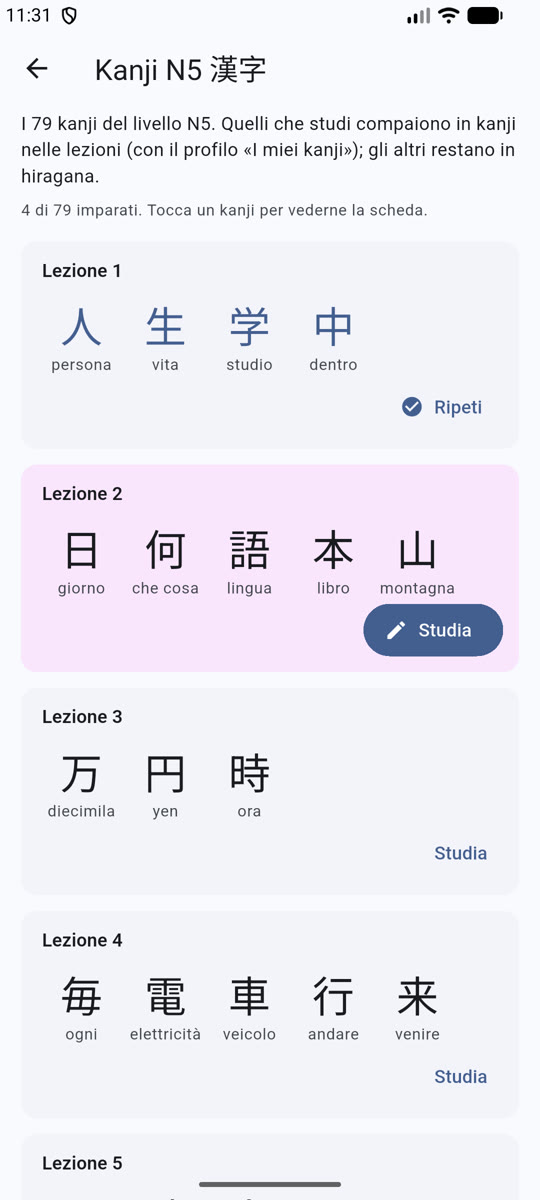
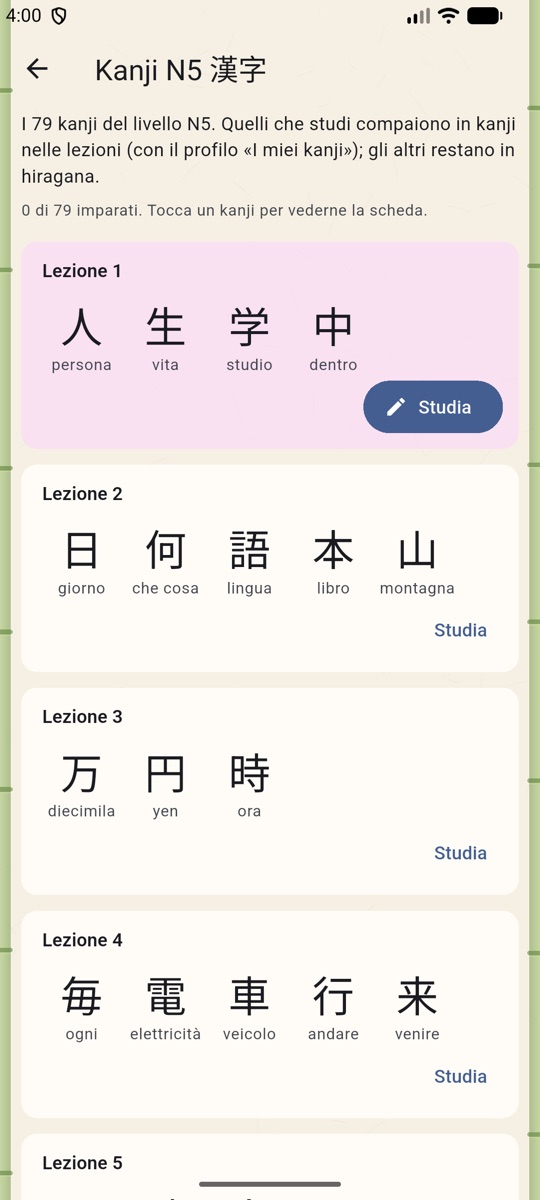
Showcase update: new Japanese look, 40 N5 lessons, exercises, grammar guide, Hana
New screenshots taken on the Android emulator; README updated with the new features,
engineering notes (numbers and counters, vocabulary coverage) and status.

diff --git a/README.md b/README.md
@@ -4,28 +4,28 @@
 
 <p align="center"><i>Learn Japanese the way it is written: only the kanji you know, everything else in hiragana.</i></p>
 
-**Nomichi** (野道, "a path through the fields") is a Flutter app for learning Japanese, for iOS and Android. A single **profile of the kanji you know** drives every screen: you see a kanji in a text only once you have studied it, and everything else stays in hiragana with furigana. The guided path, the reviews and the handwriting practice all follow that profile. It works offline, and the handwriting checks run on the device.
+**Nomichi** (野道, "a path through the fields") is a Flutter app for learning Japanese, for iOS and Android. A single **profile of the kanji you know** drives every screen: you see a kanji in a text only once you have studied it, and everything else stays in hiragana with furigana. The guided path, the reviews and the handwriting practice all follow that profile. It works offline, and the handwriting checks run on the device. The look follows the language you study: for Japanese, washi paper, bamboo and a landscape with Mount Fuji on the home screen.
 
-> 🇮🇹 *Nomichi (野道, "il sentiero fra i campi"): un'app per imparare il giapponese che mostra solo i kanji che conosci e scrive il resto in hiragana. Lezioni a dialoghi con traduzione letterale e naturale, rōmaji ovunque, scrittura col dito corretta tratto per tratto, ripasso a intervalli. Funziona offline.*
+> 🇮🇹 *Nomichi (野道, "il sentiero fra i campi"): un'app per imparare il giapponese che mostra solo i kanji che conosci e scrive il resto in hiragana. 40 lezioni a dialoghi su tutto il vocabolario N5, con traduzione letterale e naturale e rōmaji ovunque; grammatica sempre consultabile, esercizi da completare scrivendo, scrittura col dito corretta tratto per tratto, ripasso a intervalli e conversazione con l'IA del telefono. Funziona offline.*
 
 <p align="center">
   <img src="media/writing.gif" width="270" alt="Writing 日 with a finger: stroke-order animation, tracing, then writing from memory with a stroke-order mistake caught">
 </p>
 
 <p align="center">
-  <img src="media/screen2.jpg" width="200" alt="Lesson 1 before studying any kanji: everything in hiragana">
-  <img src="media/screen3.jpg" width="200" alt="The same lesson after studying 人 生 学 中: those kanji now appear, with furigana">
+  <img src="media/screen2.jpg" width="200" alt="Lesson 1 with the 'My kanji' profile before studying any kanji: everything in hiragana, highlighted">
+  <img src="media/screen3.jpg" width="200" alt="The same lesson with the N5 profile: N5 kanji appear with furigana, 会社員 stays in highlighted hiragana">
 </p>
-<p align="center"><sub>The same dialogue before and after studying the lesson's kanji. Words with kanji you don't know yet are underlined, and tapping them shows the original.</sub></p>
+<p align="center"><sub>The same dialogue with no kanji studied and with the N5 profile. Words whose kanji you don't know yet get a soft yellow highlight, and tapping them shows the original.</sub></p>
 
 <p align="center">
-  <img src="media/screen1.jpg" width="160" alt="The guided path with progress, kanji profile and writing sections">
+  <img src="media/screen1.jpg" width="160" alt="Home: the app name in a Japanese landscape, next lesson, kanji profile, conversation and grammar">
+  <img src="media/screen9.jpg" width="160" alt="Lesson 14 with the N5 profile: kanji with furigana, rōmaji, literal and natural translation">
+  <img src="media/screen7.jpg" width="160" alt="Fill-in exercise: the missing particle typed in rōmaji and checked">
+  <img src="media/screen8.jpg" width="160" alt="N5 grammar guide with search, rōmaji on every Japanese word">
   <img src="media/screen4.jpg" width="160" alt="The 79 N5 kanji grouped by the lesson that introduces them">
-  <img src="media/screen5.jpg" width="160" alt="Writing 学 from memory">
+  <img src="media/screen5.jpg" width="160" alt="Stroke order of 日, with a button to hear its readings">
   <img src="media/screen6.jpg" width="160" alt="Hiragana table">
-  <img src="media/screen7.jpg" width="160" alt="Tracing あ: a stroke drawn in the wrong direction is caught">
-  <img src="media/screen8.jpg" width="160" alt="Review card: write a in hiragana, graded automatically">
-  <img src="media/screen9.jpg" width="160" alt="Grammar notes with rōmaji on every Japanese word">
 </p>
 
 <p align="center">▶ <a href="media/demo.mp4"><b>Watch the 20-second handwriting demo</b></a></p>
@@ -35,13 +35,16 @@
 ## ✨ Features
 
 - **A kanji profile instead of a "level"**: by default the app shows only the kanji you have studied in it ("My kanji"). You can also pick a JLPT level (N5, N4, N3) and see every kanji of that level. The check is done by code on every sentence, so a text never contains a kanji above your profile.
-- **Guided path of dialogue lessons**: each line has furigana, rōmaji, a word-by-word literal translation and a natural Italian translation, and each can be hidden. Grammar notes come with examples, and every Japanese word in them carries its rōmaji. Polite forms come first (*dewa arimasen*), spoken and casual forms later.
+- **40 N5 lessons covering the whole N5 vocabulary** (717 words, measured by a script against the JLPT lists): each dialogue line has furigana, rōmaji, a word-by-word literal translation and a natural Italian translation, and each can be hidden. Grammar notes come with examples, and every Japanese word in them carries its rōmaji. Polite forms come first (*dewa arimasen*), spoken and casual forms later; texts grow longer lesson after lesson, up to a diary written in plain form.
+- **Grammar guide, always at hand**: every grammar point of the course on one page, searchable in Italian, Japanese or rōmaji ("te kudasai", "passato", "から").
+- **Fill-in exercises**: at the end of each lesson, ten sentences with a missing word or particle to type in rōmaji, kana or kanji. Long vowels are forgiven (*tokyo* counts for *Tōkyō*), and the solution shows reading, rōmaji and audio.
+- **Conversation with Hana**, on-device AI (Apple Foundation Models on iPhone): talk about a topic at your level or freely; Hana's replies are shown with your kanji profile, furigana and rōmaji.
 - **Handwriting with the finger, checked stroke by stroke**: for every kana and kanji you watch the stroke order, trace over the model, then write from memory. The app tells you what went wrong: "stroke 3 goes the other way", "this is stroke 3, stroke 2 comes first". After two mistakes on the same stroke it shows a hint.
 - **All the kana**: the 46 basic hiragana and katakana, voiced and semi-voiced sounds (が, ぱ), combinations (きゃ, しゅ), small っ and the long-vowel mark ー. There are pronunciation notes where Italian speakers usually stumble (し, つ, ふ, ら).
 - **The 79 N5 kanji**: each one has its Italian meaning, its main on/kun readings in kana and rōmaji, and example words with furigana. They are introduced inside the lesson that first uses them.
 - **Spaced repetition**: words, dialogue lines, kana and kanji go into an SM-2-style review. Reviews that are overdue come before new cards, and a session holds at most 20 cards. Writing cards are graded automatically from your mistakes.
 - **"Second wave"**: five lessons later, an old lesson comes back in reverse. You see the Italian and say it in Japanese, and any line you miss goes straight back into today's review.
-- **Audio** from the phone's Japanese voices, with a slow mode, for single lines or the whole dialogue.
+- **Audio** from the phone's Japanese voices, with a slow mode, for single lines or the whole dialogue. Single words and kanji are read from their kana reading, so 何 is never read as *ka*.
 - **Offline and private**: lessons, stroke data and handwriting checks are all on the device. There is no account and no tracking.
 
 ## 🛠 Tech stack
@@ -53,6 +56,7 @@
 | Data | KANJIDIC (meanings, readings), JLPT kanji lists, KanjiVG stroke order (SVG → point sequences) |
 | Storage | shared_preferences for profile, progress and review state, offline-first |
 | Audio | Platform text-to-speech (AVSpeechSynthesizer, Android TTS) |
+| On-device AI | Apple Foundation Models via a Swift platform channel, guided generation; iOS tokenizer for the replies |
 | Quality | Unit tests on every real lesson, kana and kanji (kanji limits, rōmaji, stroke recognition, scheduling) |
 
 ## 🧠 Engineering highlights
@@ -60,18 +64,20 @@
 - **Level adaptation that can't leak**: lessons are written once in full Japanese. At build time each word is split into kanji with their own readings (食[た]べ物[もの]). At runtime the app replaces only the kanji outside your profile, and proper names are never left half-converted (no た中). A test runs every sentence of every lesson at every level and fails if a single unknown kanji gets through.
 - **Handwriting recognition without ML**: each stroke is resampled to 24 equidistant points and compared with the KanjiVG reference by position, shape, direction and order. If you write the whole character a little off-centre, the offset is measured on the strokes already accepted and taken into account, so you aren't penalised. The thresholds were tuned against all 151 kana and 79 kanji. That exposed a real bug: two parallel strokes close together (き, 三, 電) could be accepted in the wrong order. Now a stroke that matches a later one much better is flagged.
 - **Readings that a parser gets wrong**: UniDic reads お母さん as *ohaha-san* and splits 一万円. The pipeline uses MeCab's segmentation only when its reading agrees with the curated one. Otherwise it aligns the curated reading kanji by kanji, and the rōmaji comes out with Hepburn long vowels (*Tōkyō*, *okāsan*, *gakkō*).
+- **Numbers and counters**: 三本 is *sanbon*, 六本 *roppon*, 二十日 *hatsuka*, 二人 *futari*, 何本 *nanbon*. A dedicated pass rebuilds number + counter readings with every sound change, because a parser reads the counter without looking at the number.
+- **Vocabulary coverage as a test**: a script compares all lesson text with the JLPT word lists (dictionary forms, compounds, kana spellings) and reports what is still missing; N5 is at 717/717.
 - **Rōmaji is enforced**: every Japanese fragment inside the Italian grammar explanations is annotated automatically (は → は (wa)). A test fails if a single one is missing.
 - **Typographic details**: furigana keeps its space even when hidden, so lines don't jump. Closing punctuation never starts a line (kinsoku), and stroke numbers don't overlap when two strokes share a starting point (日).
 
 ## 📱 Status
 
-Nomichi is in active development. It runs on iOS and Android, and comes with the full kana, the 79 N5 kanji and the first 10 N5 lessons. Next comes conversation with on-device AI (Apple Foundation Models, Gemini Nano), with replies held to the kanji profile, then the rest of N5. Publication on the App Store and Google Play is planned.
+Nomichi is in active development. It runs on iOS and Android, with the full kana, the 79 N5 kanji, all 40 N5 lessons, the grammar guide and the exercises. Conversation with on-device AI works on iPhone; Android support (Gemini Nano or an online model) comes next, followed by the N4 and N3 courses. Publication on the App Store and Google Play is planned.
 
 ## 🙏 Data credits
 
 - Stroke order: [KanjiVG](http://kanjivg.tagaini.net) © Ulrich Apel, CC BY-SA 3.0
 - Kanji meanings and readings: [KANJIDIC](http://www.edrdg.org/wiki/index.php/KANJIDIC_Project), EDRDG, CC BY-SA 4.0
-- JLPT levels: [Jonathan Waller's JLPT Resources](http://www.tanos.co.uk/jlpt/), CC BY
+- JLPT levels and vocabulary lists: [Jonathan Waller's JLPT Resources](http://www.tanos.co.uk/jlpt/), CC BY
 - Morphological analysis: MeCab with the UniDic dictionary
 
 ---
